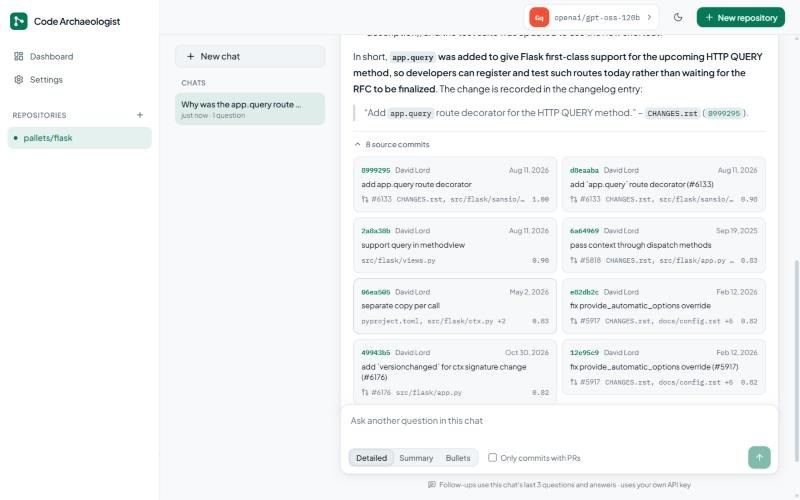
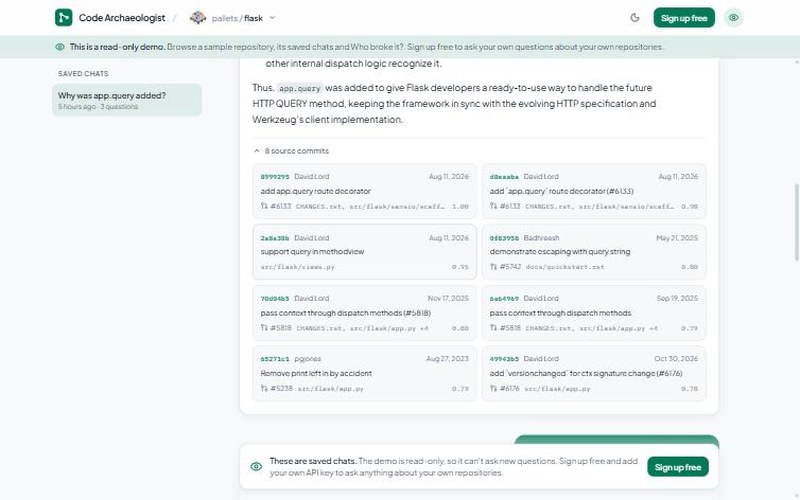
README: screenshots of the new top bar from the live demo
Answer sources, Bug origins and Who broke it? retaken from the public
demo (pallets/flask, 500 commits), with the Bug origins numbers updated.

diff --git a/README.md b/README.md
@@ -85,7 +85,7 @@ Code Archaeologist makes that history answerable:
 
 *Every answer lists the commits it was built from, each linked to GitHub.*
 
-![Bug origins for pallets/flask: 21 bug fixes, 14 traced to a likely cause, a median of 867 days from cause to fix, and the commits behind several fixes](docs/screenshots/bug-origins.jpg)
+![Bug origins for the last 500 commits of pallets/flask: 81 bug fixes, 53 traced to a likely cause, a median of 161 days from cause to fix, and the commits behind several fixes](docs/screenshots/bug-origins.jpg)
 
 *Bug origins traces each fix back to the commit that most likely caused it, and flags commits that needed several fixes.*
 
